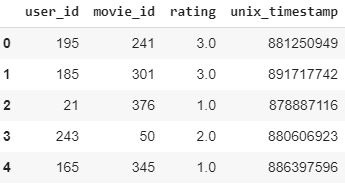
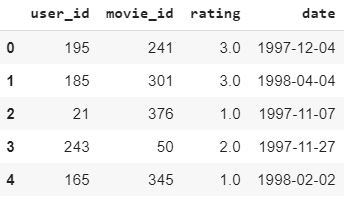
Checkpoint

diff --git a/_posts/2020-06-21-building-a-recommendation-system-in-python.md b/_posts/2020-06-21-building-a-recommendation-system-in-python.md
@@ -63,8 +63,82 @@ Other benefit is that values are already normalized between -1 and 1 for opposit
 As mentioned previously, Collaborative-Filtering relies on interaction data so we need a set of recorded interactions between Users and Items. Luckily for us there is a dataset that does exactly that - the MovieLens 100K dataset composed of 100.000 individual movie ratings ranging from 1 to 5, made by 943 users in 1682 movies.
 This is probably the best publicly available dataset for working on recommendation systems, it's based on real data and is already preprocessed for us.
 
+It's important to note that even though the dataset we will be using is comprised of user ratings on movies, our Recommender System will still be easily adaptable to other types of recommendation problems. At the core of what we are doing, we are simply using Cosine Similarity as a way to determine similarity between two different vectors (users) based on their features (item interactions).
+
+Without further ado let's get to it!
+
+## Development
+
+### Preparing the data
+Since our goal is to use **Cosine Similarity** to measure how close Users are from each other, we need to transform our dataset from a dense to a sparse representation. In order to achieve that each User needs to be represented by a single row in the dataset so that the columns are the ratings given by the Users to each different movie.
+
+But first, let's get our MovieLens 100K Dataset!  
+The code below will download the dataset from the public repository, extract it and parse some of the columns to the correct datatype.
+
+```python
+import pandas as pd
+from urllib.request import urlretrieve
+import zipfile
+
+# Download MovieLens data.
+print("Downloading movielens data...")
+
+urlretrieve("http://files.grouplens.org/datasets/movielens/ml-100k.zip", "movielens.zip")
+zip_ref = zipfile.ZipFile('movielens.zip', "r")
+zip_ref.extractall()
+print("Done. Dataset contains:")
+print(zip_ref.read('ml-100k/u.info'))
+
+# Load each data set (users, movies, and ratings).
+ratings_cols = ['user_id', 'movie_id', 'rating', 'unix_timestamp']
+ratings = pd.read_csv(
+    'ml-100k/u.data', sep='\t', names=ratings_cols, encoding='latin-1')
+
+# The movies file contains a binary feature for each genre.
+genre_cols = [
+    "genre_unknown", "Action", "Adventure", "Animation", "Children", "Comedy",
+    "Crime", "Documentary", "Drama", "Fantasy", "Film-Noir", "Horror",
+    "Musical", "Mystery", "Romance", "Sci-Fi", "Thriller", "War", "Western"
+]
+
+movies_cols = [
+    'movie_id', 'title', 'release_date', "video_release_date", "imdb_url"
+] + genre_cols
+
+movies = pd.read_csv(
+    'ml-100k/u.item', sep='|', names=movies_cols, encoding='latin-1')
+
+# Since the ids start at 1, we shift them to start at 0.
+movies["movie_id"] = movies["movie_id"].apply(lambda x: str(x-1))
+movies["year"] = movies['release_date'].apply(lambda x: str(x).split('-')[-1])
+ratings["movie_id"] = ratings["movie_id"].apply(lambda x: str(x-1))
+ratings["user_id"] = ratings["user_id"].apply(lambda x: str(x-1))
+ratings["rating"] = ratings["rating"].apply(lambda x: float(x))
+
+# Get date from unix timestamp
+ratings['date'] = pd.to_datetime(ratings['unix_timestamp'], origin='unix',unit='s').dt.date
+
+# remove unix date since we already have it in  a human-friendly format
+ratings.drop('unix_timestamp', axis=1, inplace=True)
+```
+
+Let's see how our data looks by running:
+```python
+ratings.head()
+```
 {:refdef: style="text-align: center;"}
 ![Movie Lens 100K](/images/movie_lens_100k.jpg)
 {: refdef}
 
-It's important to note that even though the dataset we will be using is comprised of user ratings on movies, our Recommender System will still be easily adaptable to whatever different problem it might need to as long as the nature of the problem is similar. At the core of what we are doing, we are simply using Cosine Similarity as a way to determine similarity between two different vectors (users) based on their features (item interactions).
+So we have ```user_id```, ```movie_id``` and ```rating``` which is what we needed to solve our problem plus the newly added ```date``` which we will be using to separate the training and test sets later on.
+
+Before moving on to the algorithm itself there is one more step to take care of, and it's the most important one: transforming the dataset from *dense* to *sparse*. We can use pandas **pivot** to solve this but there is one caveat - we won't be able to store dates in this DataFrame. So to make our lifes easier lets first to the Train-Test Split in the dataset.
+
+The dataset goes from 1997-09-20 to 1998-04-22 which gives about 6 months worth of data, here we will use 4 months to train and the last 2 months for making predictions.
+
+```python
+train = ratings[ratings['date'] < pd.to_datetime('1998-02-22')]
+test = ratings[ratings['date'] >= pd.to_datetime('1998-02-22')]
+```
+
+Nice, now we can transform our data into a pivot table with the following command:
